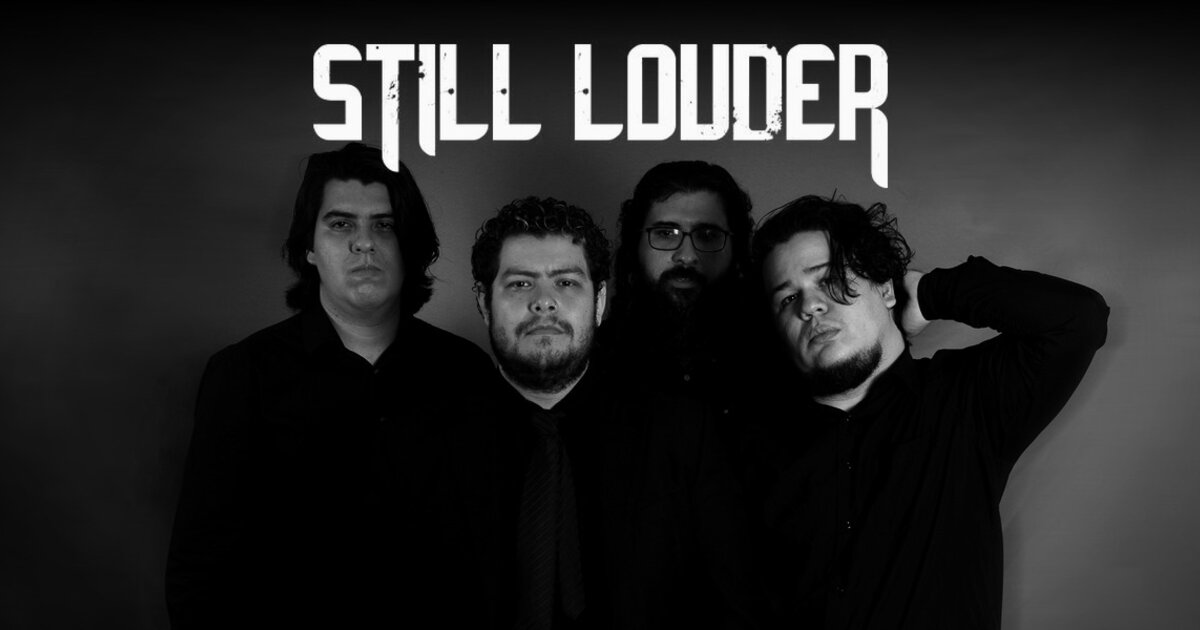
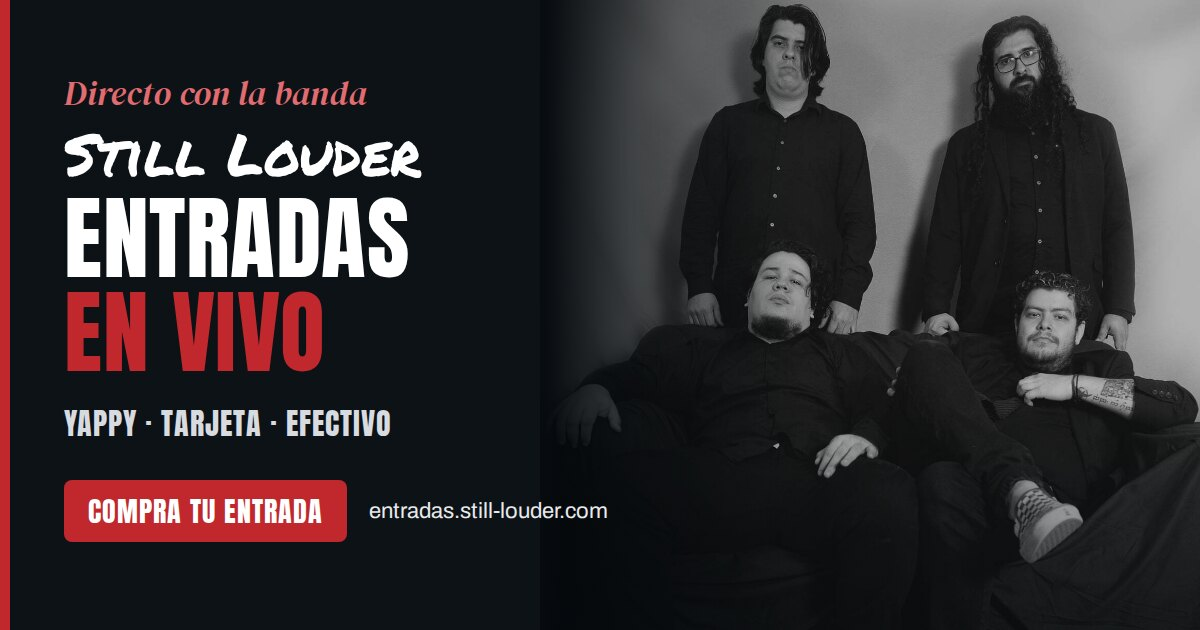
fix(tickets): neutral og:image composed like the WWWY3 one
Claude-Session: https://claude.ai/code/session_016RMkHGvGa4XBqQw3tC4xNU

diff --git a/ticket-system/entradas.html b/ticket-system/entradas.html
@@ -26,7 +26,7 @@
     <meta property="og:image:type" content="image/jpeg" />
     <meta property="og:image:width" content="1200" />
     <meta property="og:image:height" content="630" />
-    <meta property="og:image:alt" content="Foto de la banda Still Louder en blanco y negro con su logo" />
+    <meta property="og:image:alt" content="Still Louder · Entradas en vivo, directo con la banda. Paga con Yappy, tarjeta o efectivo en entradas.still-louder.com" />
 
     <!-- Twitter / X -->
     <meta name="twitter:card" content="summary_large_image" />
@@ -36,7 +36,7 @@
       content="Entradas para los shows de Still Louder, directo con la banda. Compra con Yappy, tarjeta o efectivo y recibe tu QR por correo."
     />
     <meta name="twitter:image" content="https://entradas.still-louder.com/og-image.jpg?v=2" />
-    <meta name="twitter:image:alt" content="Foto de la banda Still Louder en blanco y negro con su logo" />
+    <meta name="twitter:image:alt" content="Still Louder · Entradas en vivo, directo con la banda. Paga con Yappy, tarjeta o efectivo en entradas.still-louder.com" />
     <!-- Favicon -->
     <link rel="icon" type="image/png" href="/favicon-96x96.png" sizes="96x96" />
     <link rel="icon" type="image/svg+xml" href="/favicon.svg" />
